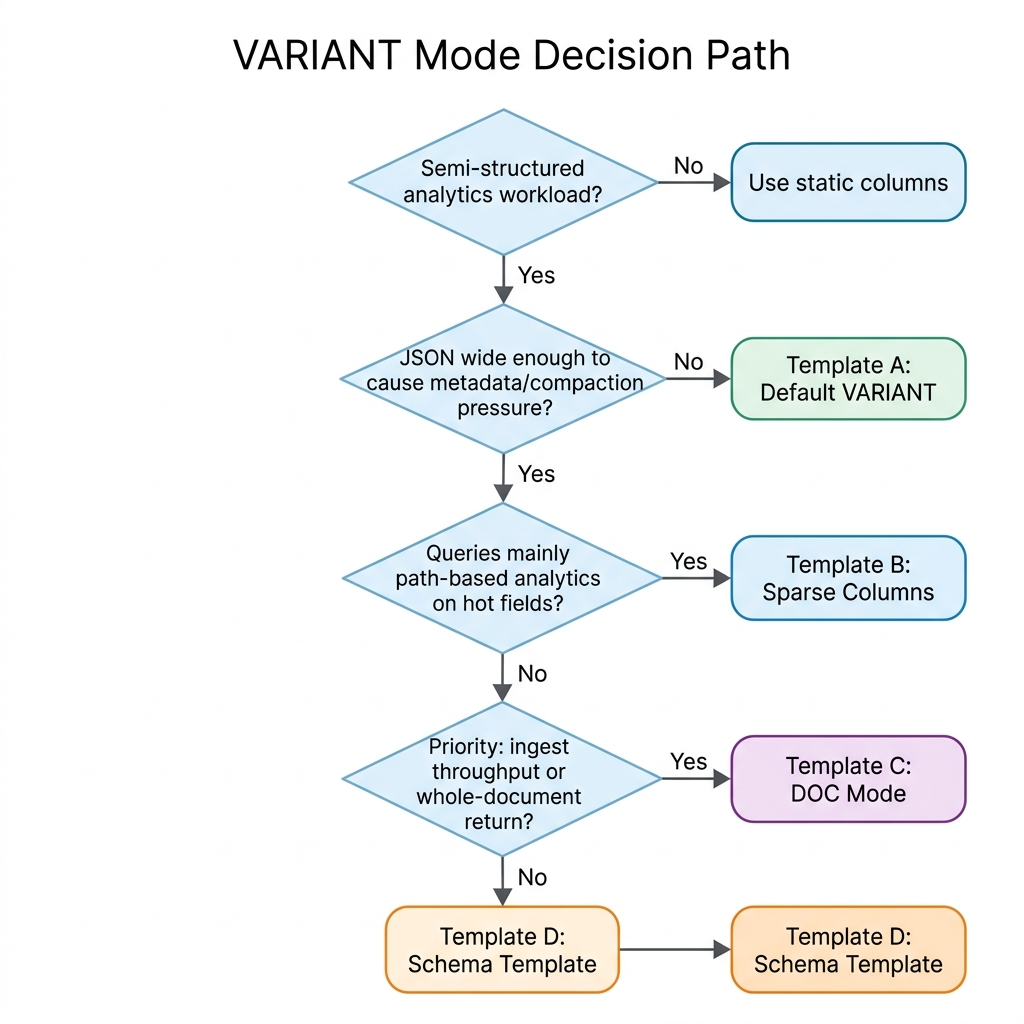
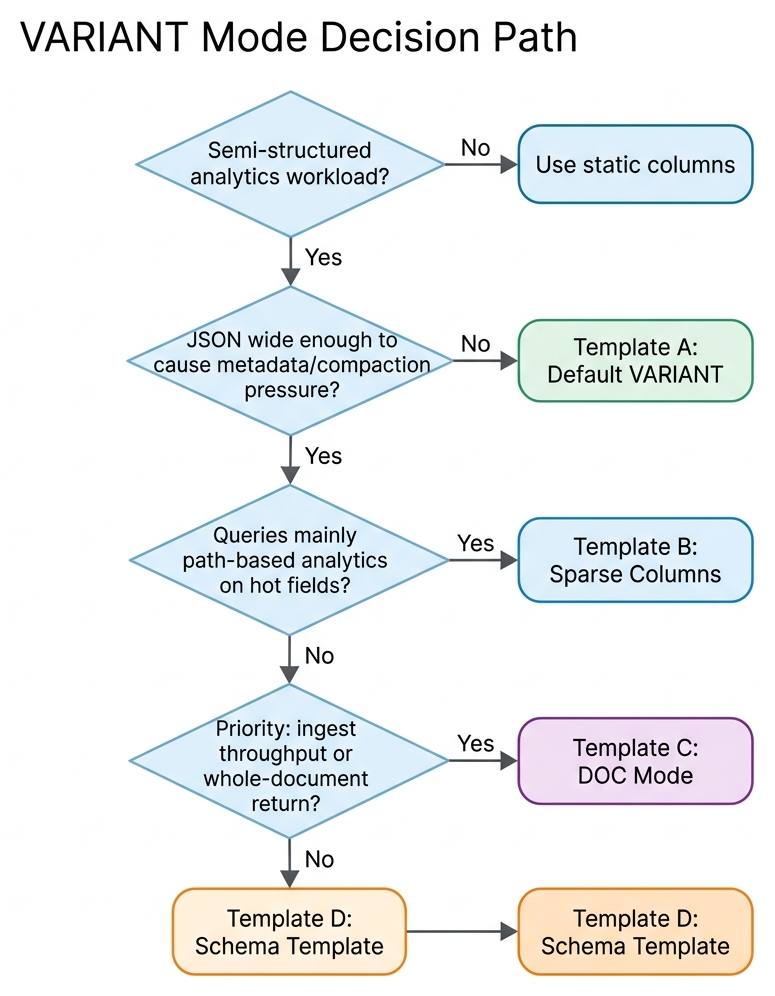
shrink variant workload guide picture (#3510)

Changed region(s): [[0.031, 0.0, 0.991, 0.996]]

diff --git a/docs/sql-manual/basic-element/sql-data-types/semi-structured/variant-workload-guide.md b/docs/sql-manual/basic-element/sql-data-types/semi-structured/variant-workload-guide.md
@@ -64,7 +64,7 @@ Before reading the storage modes below, make sure these terms are clear. Each is
 
 **Subcolumnization.** When data is written into a `VARIANT` column, Doris automatically discovers JSON paths and extracts hot paths as independent columnar subcolumns for efficient analytics.
 
-![Default VARIANT: Automatic Subcolumn Extraction](/images/variant/variant-default-storage.png)
+<img src="/images/variant/variant-default-storage.png" alt="Default VARIANT: Automatic Subcolumn Extraction" width="720" />
 
 **Schema Template.** A declaration on a `VARIANT` column that pins selected paths to stable types. Use it for key business fields that must stay typed, indexable, and predictable. Do not try to enumerate every possible path.
 
@@ -72,23 +72,23 @@ Before reading the storage modes below, make sure these terms are clear. Each is
 
 **Sparse columns.** When wide JSON has a clear hot/cold split, sparse columns keep hot paths in Subcolumnization while pushing cold (long-tail) paths into shared sparse storage. Sparse storage supports sharding across multiple physical columns for better read parallelism.
 
-![Sparse Columns: Hot/Cold Path Separation](/images/variant/variant-sparse-storage.png)
+<img src="/images/variant/variant-sparse-storage.png" alt="Sparse Columns: Hot/Cold Path Separation" width="720" />
 
 As shown above, hot paths (such as `user_id`, `page`) stay as independent columnar subcolumns with full analytics speed, while thousands of long-tail paths converge into shared sparse storage. The threshold is controlled by `variant_max_subcolumns_count`.
 
 **Sparse sharding.** When the long-tail path count is very large, a single sparse column can become a read bottleneck. Sparse sharding distributes long-tail paths by hash across multiple physical columns (`variant_sparse_hash_shard_count`), so they can be scanned in parallel.
 
-![Sparse Sharding: Parallel Read for Long-Tail Paths](/images/variant/variant-sparse-sharding.png)
+<img src="/images/variant/variant-sparse-sharding.png" alt="Sparse Sharding: Parallel Read for Long-Tail Paths" width="720" />
 
 **DOC mode.** Delays Subcolumnization at write time and additionally stores the original JSON as a map-format stored field (the **doc map**). This gives fast ingest and efficient whole-document return at the cost of extra storage. Subcolumnization still happens later during compaction.
 
-![DOC Mode: Deferred Extraction + Fast Document Return](/images/variant/variant-doc-mode.png)
+<img src="/images/variant/variant-doc-mode.png" alt="DOC Mode: Deferred Extraction + Fast Document Return" width="700" />
 
 As illustrated above, during write the JSON is preserved as-is into a Doc Store for fast ingest. Subcolumns are extracted later during compaction. At read time, path-based queries (e.g. `SELECT v['user_id']`) read from materialized subcolumns at full columnar speed, while whole-document queries (`SELECT v`) read directly from the Doc Store without reconstructing from subcolumns.
 
 DOC mode has three distinct read paths depending on whether the queried path has been materialized:
 
-![DOC Mode: Read Path Details](/images/variant/variant-doc-mode-readpaths.png)
+<img src="/images/variant/variant-doc-mode-readpaths.png" alt="DOC Mode: Read Path Details" width="720" />
 
 - **DOC Materialized**: The queried path has already been extracted into a subcolumn (after compaction or when `variant_doc_materialization_min_rows` is met). Reads at full columnar speed, same as default VARIANT.
 - **DOC Map**: The queried path has not been materialized yet. The query falls back to scanning the entire doc map to find the value — significantly slower on wide JSON.
@@ -98,7 +98,7 @@ DOC mode has three distinct read paths depending on whether the queried path has
 
 ## Recommended Decision Path
 
-![VARIANT Mode Decision Path](/images/variant/variant-decision-flowchart.png)
+<img src="/images/variant/variant-decision-flowchart.png" alt="VARIANT Mode Decision Path" width="520" />
 
 ## Storage Modes
 
@@ -248,7 +248,7 @@ Watch for:
 
 The chart below compares single-path extraction time on a 10K-path wide-column dataset (200K rows, extracting one key, 16 CPUs, median of 3 runs).
 
-![Wide-Column Single-Path Extraction: Query Time](/images/variant/variant-bench-query-time.svg)
+<img src="/images/variant/variant-bench-query-time.svg" alt="Wide-Column Single-Path Extraction: Query Time" width="720" />
 
 | Mode | Query Time | Peak Memory |
 |---|---:|---:|

diff --git a/versioned_docs/version-4.x/sql-manual/basic-element/sql-data-types/semi-structured/variant-workload-guide.md b/versioned_docs/version-4.x/sql-manual/basic-element/sql-data-types/semi-structured/variant-workload-guide.md
@@ -64,7 +64,7 @@ Before reading the storage modes below, make sure these terms are clear. Each is
 
 **Subcolumnization.** When data is written into a `VARIANT` column, Doris automatically discovers JSON paths and extracts hot paths as independent columnar subcolumns for efficient analytics.
 
-![Default VARIANT: Automatic Subcolumn Extraction](/images/variant/variant-default-storage.png)
+<img src="/images/variant/variant-default-storage.png" alt="Default VARIANT: Automatic Subcolumn Extraction" width="720" />
 
 **Schema Template.** A declaration on a `VARIANT` column that pins selected paths to stable types. Use it for key business fields that must stay typed, indexable, and predictable. Do not try to enumerate every possible path.
 
@@ -72,23 +72,23 @@ Before reading the storage modes below, make sure these terms are clear. Each is
 
 **Sparse columns.** When wide JSON has a clear hot/cold split, sparse columns keep hot paths in Subcolumnization while pushing cold (long-tail) paths into shared sparse storage. Sparse storage supports sharding across multiple physical columns for better read parallelism.
 
-![Sparse Columns: Hot/Cold Path Separation](/images/variant/variant-sparse-storage.png)
+<img src="/images/variant/variant-sparse-storage.png" alt="Sparse Columns: Hot/Cold Path Separation" width="720" />
 
 As shown above, hot paths (such as `user_id`, `page`) stay as independent columnar subcolumns with full analytics speed, while thousands of long-tail paths converge into shared sparse storage. The threshold is controlled by `variant_max_subcolumns_count`.
 
 **Sparse sharding.** When the long-tail path count is very large, a single sparse column can become a read bottleneck. Sparse sharding distributes long-tail paths by hash across multiple physical columns (`variant_sparse_hash_shard_count`), so they can be scanned in parallel.
 
-![Sparse Sharding: Parallel Read for Long-Tail Paths](/images/variant/variant-sparse-sharding.png)
+<img src="/images/variant/variant-sparse-sharding.png" alt="Sparse Sharding: Parallel Read for Long-Tail Paths" width="720" />
 
 **DOC mode.** Delays Subcolumnization at write time and additionally stores the original JSON as a map-format stored field (the **doc map**). This gives fast ingest and efficient whole-document return at the cost of extra storage. Subcolumnization still happens later during compaction.
 
-![DOC Mode: Deferred Extraction + Fast Document Return](/images/variant/variant-doc-mode.png)
+<img src="/images/variant/variant-doc-mode.png" alt="DOC Mode: Deferred Extraction + Fast Document Return" width="700" />
 
 As illustrated above, during write the JSON is preserved as-is into a Doc Store for fast ingest. Subcolumns are extracted later during compaction. At read time, path-based queries (e.g. `SELECT v['user_id']`) read from materialized subcolumns at full columnar speed, while whole-document queries (`SELECT v`) read directly from the Doc Store without reconstructing from subcolumns.
 
 DOC mode has three distinct read paths depending on whether the queried path has been materialized:
 
-![DOC Mode: Read Path Details](/images/variant/variant-doc-mode-readpaths.png)
+<img src="/images/variant/variant-doc-mode-readpaths.png" alt="DOC Mode: Read Path Details" width="720" />
 
 - **DOC Materialized**: The queried path has already been extracted into a subcolumn (after compaction or when `variant_doc_materialization_min_rows` is met). Reads at full columnar speed, same as default VARIANT.
 - **DOC Map**: The queried path has not been materialized yet. The query falls back to scanning the entire doc map to find the value — significantly slower on wide JSON.
@@ -98,7 +98,7 @@ DOC mode has three distinct read paths depending on whether the queried path has
 
 ## Recommended Decision Path
 
-![VARIANT Mode Decision Path](/images/variant/variant-decision-flowchart.png)
+<img src="/images/variant/variant-decision-flowchart.png" alt="VARIANT Mode Decision Path" width="520" />
 
 ## Storage Modes
 
@@ -248,7 +248,7 @@ Watch for:
 
 The chart below compares single-path extraction time on a 10K-path wide-column dataset (200K rows, extracting one key, 16 CPUs, median of 3 runs).
 
-![Wide-Column Single-Path Extraction: Query Time](/images/variant/variant-bench-query-time.svg)
+<img src="/images/variant/variant-bench-query-time.svg" alt="Wide-Column Single-Path Extraction: Query Time" width="720" />
 
 | Mode | Query Time | Peak Memory |
 |---|---:|---:|

diff --git a/i18n/zh-CN/docusaurus-plugin-content-docs/current/sql-manual/basic-element/sql-data-types/semi-structured/variant-workload-guide.md b/i18n/zh-CN/docusaurus-plugin-content-docs/current/sql-manual/basic-element/sql-data-types/semi-structured/variant-workload-guide.md
@@ -64,7 +64,7 @@
 
 **子列列式提取（Subcolumnization）。** 写入 `VARIANT` 列时，Doris 会自动发现 JSON Path，并对热点路径执行子列列式提取，使其以独立子列的形式参与分析。
 
-![默认 VARIANT：自动子列提取](/images/variant/variant-default-storage.png)
+<img src="/images/variant/variant-default-storage.png" alt="默认 VARIANT：自动子列提取" width="720" />
 
 **Schema Template。** 一种在 `VARIANT` 列上的声明，用来把部分路径固定为稳定类型。它适合少量关键业务字段，让这些路径的类型、索引和行为更可控；不应试图穷举所有可能路径。
 
@@ -72,23 +72,23 @@
 
 **Sparse columns（稀疏列）。** 当宽 JSON 有明显的冷热分布时，Sparse 让热点路径继续保留子列列式提取（Subcolumnization）的结果，而冷门（长尾）路径进入共享的稀疏存储。稀疏存储支持分片，将对多个物理列进行分散存储以提升读并行度。
 
-![Sparse Columns：冷热路径分离](/images/variant/variant-sparse-storage.png)
+<img src="/images/variant/variant-sparse-storage.png" alt="Sparse Columns：冷热路径分离" width="720" />
 
 如上图所示，热点路径（如 `user_id`、`page`）继续以独立列式子列的形式保持高性能分析能力，而数千个长尾路径则汇入共享稀疏存储。阈值通过 `variant_max_subcolumns_count` 控制。
 
 **Sparse sharding（稀疏分片）。** 当长尾路径数量非常大时，单个稀疏列可能成为读取瓶颈。稀疏分片通过哈希将长尾路径分散到多个物理列（`variant_sparse_hash_shard_count`），从而可以并行扫描。
 
-![Sparse Sharding：长尾路径并行读取](/images/variant/variant-sparse-sharding.png)
+<img src="/images/variant/variant-sparse-sharding.png" alt="Sparse Sharding：长尾路径并行读取" width="720" />
 
 **DOC mode。** 写入时延迟子列列式提取（Subcolumnization），并额外存储一份 map 格式的原始 JSON（即 **doc map**）。这带来了快速导入和高效整条文档返回能力，代价是额外存储。后续 Compaction 时仍会完成 Subcolumnization。
 
-![DOC Mode：延迟提取 + 快速文档返回](/images/variant/variant-doc-mode.png)
+<img src="/images/variant/variant-doc-mode.png" alt="DOC Mode：延迟提取 + 快速文档返回" width="700" />
 
 如上图所示，写入时 JSON 被原样保存到 Doc Store 以实现快速导入。子列在后续 Compaction 过程中提取。读取时，按路径查询（如 `SELECT v['user_id']`）从物化子列中以列式速度读取；而整条文档查询（`SELECT v`）则直接从 Doc Store 中读取，无需从大量子列重组文档。
 
 DOC mode 的读取路径取决于被查询的路径是否已经物化：
 
-![DOC Mode：读取路径详情](/images/variant/variant-doc-mode-readpaths.png)
+<img src="/images/variant/variant-doc-mode-readpaths.png" alt="DOC Mode：读取路径详情" width="720" />
 
 - **DOC Materialized**：被查询的路径已经提取为 subcolumn（Compaction 后或 `variant_doc_materialization_min_rows` 条件满足后）。以列式速度读取，与默认 VARIANT 一样快。
 - **DOC Map**：被查询的路径尚未物化。查询回退到扫描整个 doc map 来查找值 —— 在宽 JSON 上显著变慢。
@@ -98,7 +98,7 @@ DOC mode 的读取路径取决于被查询的路径是否已经物化：
 
 ## 推荐决策路径
 
-![VARIANT 模式决策路径](/images/variant/variant-decision-flowchart.png)
+<img src="/images/variant/variant-decision-flowchart.png" alt="VARIANT 模式决策路径" width="520" />
 
 ## 存储模式
 
@@ -248,7 +248,7 @@ PROPERTIES (
 
 下图对比了 10K 路径宽列数据集上的单路径提取耗时（200K 行，提取 key5000，16 CPU，3 次取中位数）。
 
-![宽列单路径提取：查询耗时](/images/variant/variant-bench-query-time.svg)
+<img src="/images/variant/variant-bench-query-time.svg" alt="宽列单路径提取：查询耗时" width="720" />
 
 | 模式 | 查询耗时 | 峰值内存 |
 |---|---:|---:|

diff --git a/i18n/zh-CN/docusaurus-plugin-content-docs/version-4.x/sql-manual/basic-element/sql-data-types/semi-structured/variant-workload-guide.md b/i18n/zh-CN/docusaurus-plugin-content-docs/version-4.x/sql-manual/basic-element/sql-data-types/semi-structured/variant-workload-guide.md
@@ -64,7 +64,7 @@
 
 **子列列式提取（Subcolumnization）。** 写入 `VARIANT` 列时，Doris 会自动发现 JSON Path，并对热点路径执行子列列式提取，使其以独立子列的形式参与分析。
 
-![默认 VARIANT：自动子列提取](/images/variant/variant-default-storage.png)
+<img src="/images/variant/variant-default-storage.png" alt="默认 VARIANT：自动子列提取" width="720" />
 
 **Schema Template。** 一种在 `VARIANT` 列上的声明，用来把部分路径固定为稳定类型。它适合少量关键业务字段，让这些路径的类型、索引和行为更可控；不应试图穷举所有可能路径。
 
@@ -72,23 +72,23 @@
 
 **Sparse columns（稀疏列）。** 当宽 JSON 有明显的冷热分布时，Sparse 让热点路径继续保留子列列式提取（Subcolumnization）的结果，而冷门（长尾）路径进入共享的稀疏存储。稀疏存储支持分片，将对多个物理列进行分散存储以提升读并行度。
 
-![Sparse Columns：冷热路径分离](/images/variant/variant-sparse-storage.png)
+<img src="/images/variant/variant-sparse-storage.png" alt="Sparse Columns：冷热路径分离" width="720" />
 
 如上图所示，热点路径（如 `user_id`、`page`）继续以独立列式子列的形式保持高性能分析能力，而数千个长尾路径则汇入共享稀疏存储。阈值通过 `variant_max_subcolumns_count` 控制。
 
 **Sparse sharding（稀疏分片）。** 当长尾路径数量非常大时，单个稀疏列可能成为读取瓶颈。稀疏分片通过哈希将长尾路径分散到多个物理列（`variant_sparse_hash_shard_count`），从而可以并行扫描。
 
-![Sparse Sharding：长尾路径并行读取](/images/variant/variant-sparse-sharding.png)
+<img src="/images/variant/variant-sparse-sharding.png" alt="Sparse Sharding：长尾路径并行读取" width="720" />
 
 **DOC mode。** 写入时延迟子列列式提取（Subcolumnization），并额外存储一份 map 格式的原始 JSON（即 **doc map**）。这带来了快速导入和高效整条文档返回能力，代价是额外存储。后续 Compaction 时仍会完成 Subcolumnization。
 
-![DOC Mode：延迟提取 + 快速文档返回](/images/variant/variant-doc-mode.png)
+<img src="/images/variant/variant-doc-mode.png" alt="DOC Mode：延迟提取 + 快速文档返回" width="700" />
 
 如上图所示，写入时 JSON 被原样保存到 Doc Store 以实现快速导入。子列在后续 Compaction 过程中提取。读取时，按路径查询（如 `SELECT v['user_id']`）从物化子列中以列式速度读取；而整条文档查询（`SELECT v`）则直接从 Doc Store 中读取，无需从大量子列重组文档。
 
 DOC mode 的读取路径取决于被查询的路径是否已经物化：
 
-![DOC Mode：读取路径详情](/images/variant/variant-doc-mode-readpaths.png)
+<img src="/images/variant/variant-doc-mode-readpaths.png" alt="DOC Mode：读取路径详情" width="720" />
 
 - **DOC Materialized**：被查询的路径已经提取为 subcolumn（Compaction 后或 `variant_doc_materialization_min_rows` 条件满足后）。以列式速度读取，与默认 VARIANT 一样快。
 - **DOC Map**：被查询的路径尚未物化。查询回退到扫描整个 doc map 来查找值 —— 在宽 JSON 上显著变慢。
@@ -98,7 +98,7 @@ DOC mode 的读取路径取决于被查询的路径是否已经物化：
 
 ## 推荐决策路径
 
-![VARIANT 模式决策路径](/images/variant/variant-decision-flowchart.png)
+<img src="/images/variant/variant-decision-flowchart.png" alt="VARIANT 模式决策路径" width="520" />
 
 ## 存储模式
 
@@ -248,7 +248,7 @@ PROPERTIES (
 
 下图对比了 10K 路径宽列数据集上的单路径提取耗时（200K 行，提取 key5000，16 CPU，3 次取中位数）。
 
-![宽列单路径提取：查询耗时](/images/variant/variant-bench-query-time.svg)
+<img src="/images/variant/variant-bench-query-time.svg" alt="宽列单路径提取：查询耗时" width="720" />
 
 | 模式 | 查询耗时 | 峰值内存 |
 |---|---:|---:|

diff --git a/versioned_docs/version-3.x/sql-manual/basic-element/sql-data-types/semi-structured/variant-workload-guide.md b/versioned_docs/version-3.x/sql-manual/basic-element/sql-data-types/semi-structured/variant-workload-guide.md
@@ -47,7 +47,7 @@ Before reading the storage modes below, make sure these terms are clear. Each is
 
 **Subcolumnization.** When data is written into a `VARIANT` column, Doris automatically discovers JSON paths and extracts hot paths as independent columnar subcolumns for efficient analytics.
 
-![Default VARIANT: Automatic Subcolumn Extraction](/images/variant/variant-default-storage.png)
+<img src="/images/variant/variant-default-storage.png" alt="Default VARIANT: Automatic Subcolumn Extraction" width="720" />
 
 **Schema Template (3.1+).** A declaration on a `VARIANT` column that pins selected paths to stable types. Use it for key business fields that must stay typed, indexable, and predictable. Do not try to enumerate every possible path.
 
@@ -55,13 +55,13 @@ Before reading the storage modes below, make sure these terms are clear. Each is
 
 **Sparse columns (3.1+).** When wide JSON has a clear hot/cold split, sparse columns keep hot paths in Subcolumnization while pushing cold (long-tail) paths into shared sparse storage. Use `variant_max_subcolumns_count` to control the boundary.
 
-![Sparse Columns: Hot/Cold Path Separation](/images/variant/variant-sparse-storage.png)
+<img src="/images/variant/variant-sparse-storage.png" alt="Sparse Columns: Hot/Cold Path Separation" width="720" />
 
 As shown above, hot paths (such as `user_id`, `page`) stay as independent columnar subcolumns with full analytics speed, while thousands of long-tail paths converge into shared sparse storage. The threshold is controlled by `variant_max_subcolumns_count`.
 
 ## Recommended Decision Path
 
-![VARIANT Mode Decision Path (Doris 3.x)](/images/variant/variant-decision-flowchart-3x.png)
+<img src="/images/variant/variant-decision-flowchart-3x.png" alt="VARIANT Mode Decision Path (Doris 3.x)" width="600" />
 
 For wide JSON where most queries return the whole document, Doris 3.x `VARIANT` is usually not the best fit because there is no DOC mode. Avoid making `SELECT variant_col` the main query pattern on very wide columns.
 
@@ -173,7 +173,7 @@ Watch for:
 
 The chart below compares single-path extraction time on a 10K-path wide-column dataset (200K rows, extracting one key, 16 CPUs, median of 3 runs).
 
-![Wide-Column Single-Path Extraction: Query Time](/images/variant/variant-bench-query-time-3x.svg)
+<img src="/images/variant/variant-bench-query-time-3x.svg" alt="Wide-Column Single-Path Extraction: Query Time" width="720" />
 
 | Mode | Query Time | Peak Memory |
 |---|---:|---:|

diff --git a/i18n/zh-CN/docusaurus-plugin-content-docs/version-3.x/sql-manual/basic-element/sql-data-types/semi-structured/variant-workload-guide.md b/i18n/zh-CN/docusaurus-plugin-content-docs/version-3.x/sql-manual/basic-element/sql-data-types/semi-structured/variant-workload-guide.md
@@ -47,7 +47,7 @@
 
 **子列列式提取（Subcolumnization）。** 写入 `VARIANT` 列时，Doris 会自动发现 JSON Path，并对热点路径执行子列列式提取，使其以独立子列的形式参与分析。
 
-![默认 VARIANT：自动子列提取](/images/variant/variant-default-storage.png)
+<img src="/images/variant/variant-default-storage.png" alt="默认 VARIANT：自动子列提取" width="720" />
 
 **Schema Template（3.1+）。** 一种在 `VARIANT` 列上的声明，用来把部分路径固定为稳定类型。它适合少量关键业务字段，让这些路径的类型、索引和行为更可控；不应试图穷举所有可能路径。
 
@@ -55,13 +55,13 @@
 
 **Sparse columns（稀疏列，3.1+）。** 当宽 JSON 有明显的冷热分布时，Sparse 让热点路径继续保留子列列式提取（Subcolumnization）的结果，而冷门（长尾）路径进入共享的稀疏存储。使用 `variant_max_subcolumns_count` 控制边界。
 
-![Sparse Columns：冷热路径分离](/images/variant/variant-sparse-storage.png)
+<img src="/images/variant/variant-sparse-storage.png" alt="Sparse Columns：冷热路径分离" width="720" />
 
 如上图所示，热点路径（如 `user_id`、`page`）继续以独立列式子列的形式保持高性能分析能力，而数千个长尾路径则汇入共享稀疏存储。阈值通过 `variant_max_subcolumns_count` 控制。
 
 ## 推荐决策路径
 
-![VARIANT 模式决策路径 (Doris 3.x)](/images/variant/variant-decision-flowchart-3x.png)
+<img src="/images/variant/variant-decision-flowchart-3x.png" alt="VARIANT 模式决策路径 (Doris 3.x)" width="600" />
 
 如果宽 JSON 的主访问模式是整条文档返回，Doris 3.x 的 `VARIANT` 往往不是最佳匹配，因为没有 DOC mode。不建议在超宽列上把 `SELECT variant_col` 作为主查询模式。
 
@@ -173,7 +173,7 @@ PROPERTIES (
 
 下图对比了 10K 路径宽列数据集上的单路径提取耗时（200K 行，提取 key5000，16 CPU，3 次取中位数）。
 
-![宽列单路径提取：查询耗时](/images/variant/variant-bench-query-time-3x.svg)
+<img src="/images/variant/variant-bench-query-time-3x.svg" alt="宽列单路径提取：查询耗时" width="720" />
 
 | 模式 | 查询耗时 | 峰值内存 |
 |---|---:|---:|
